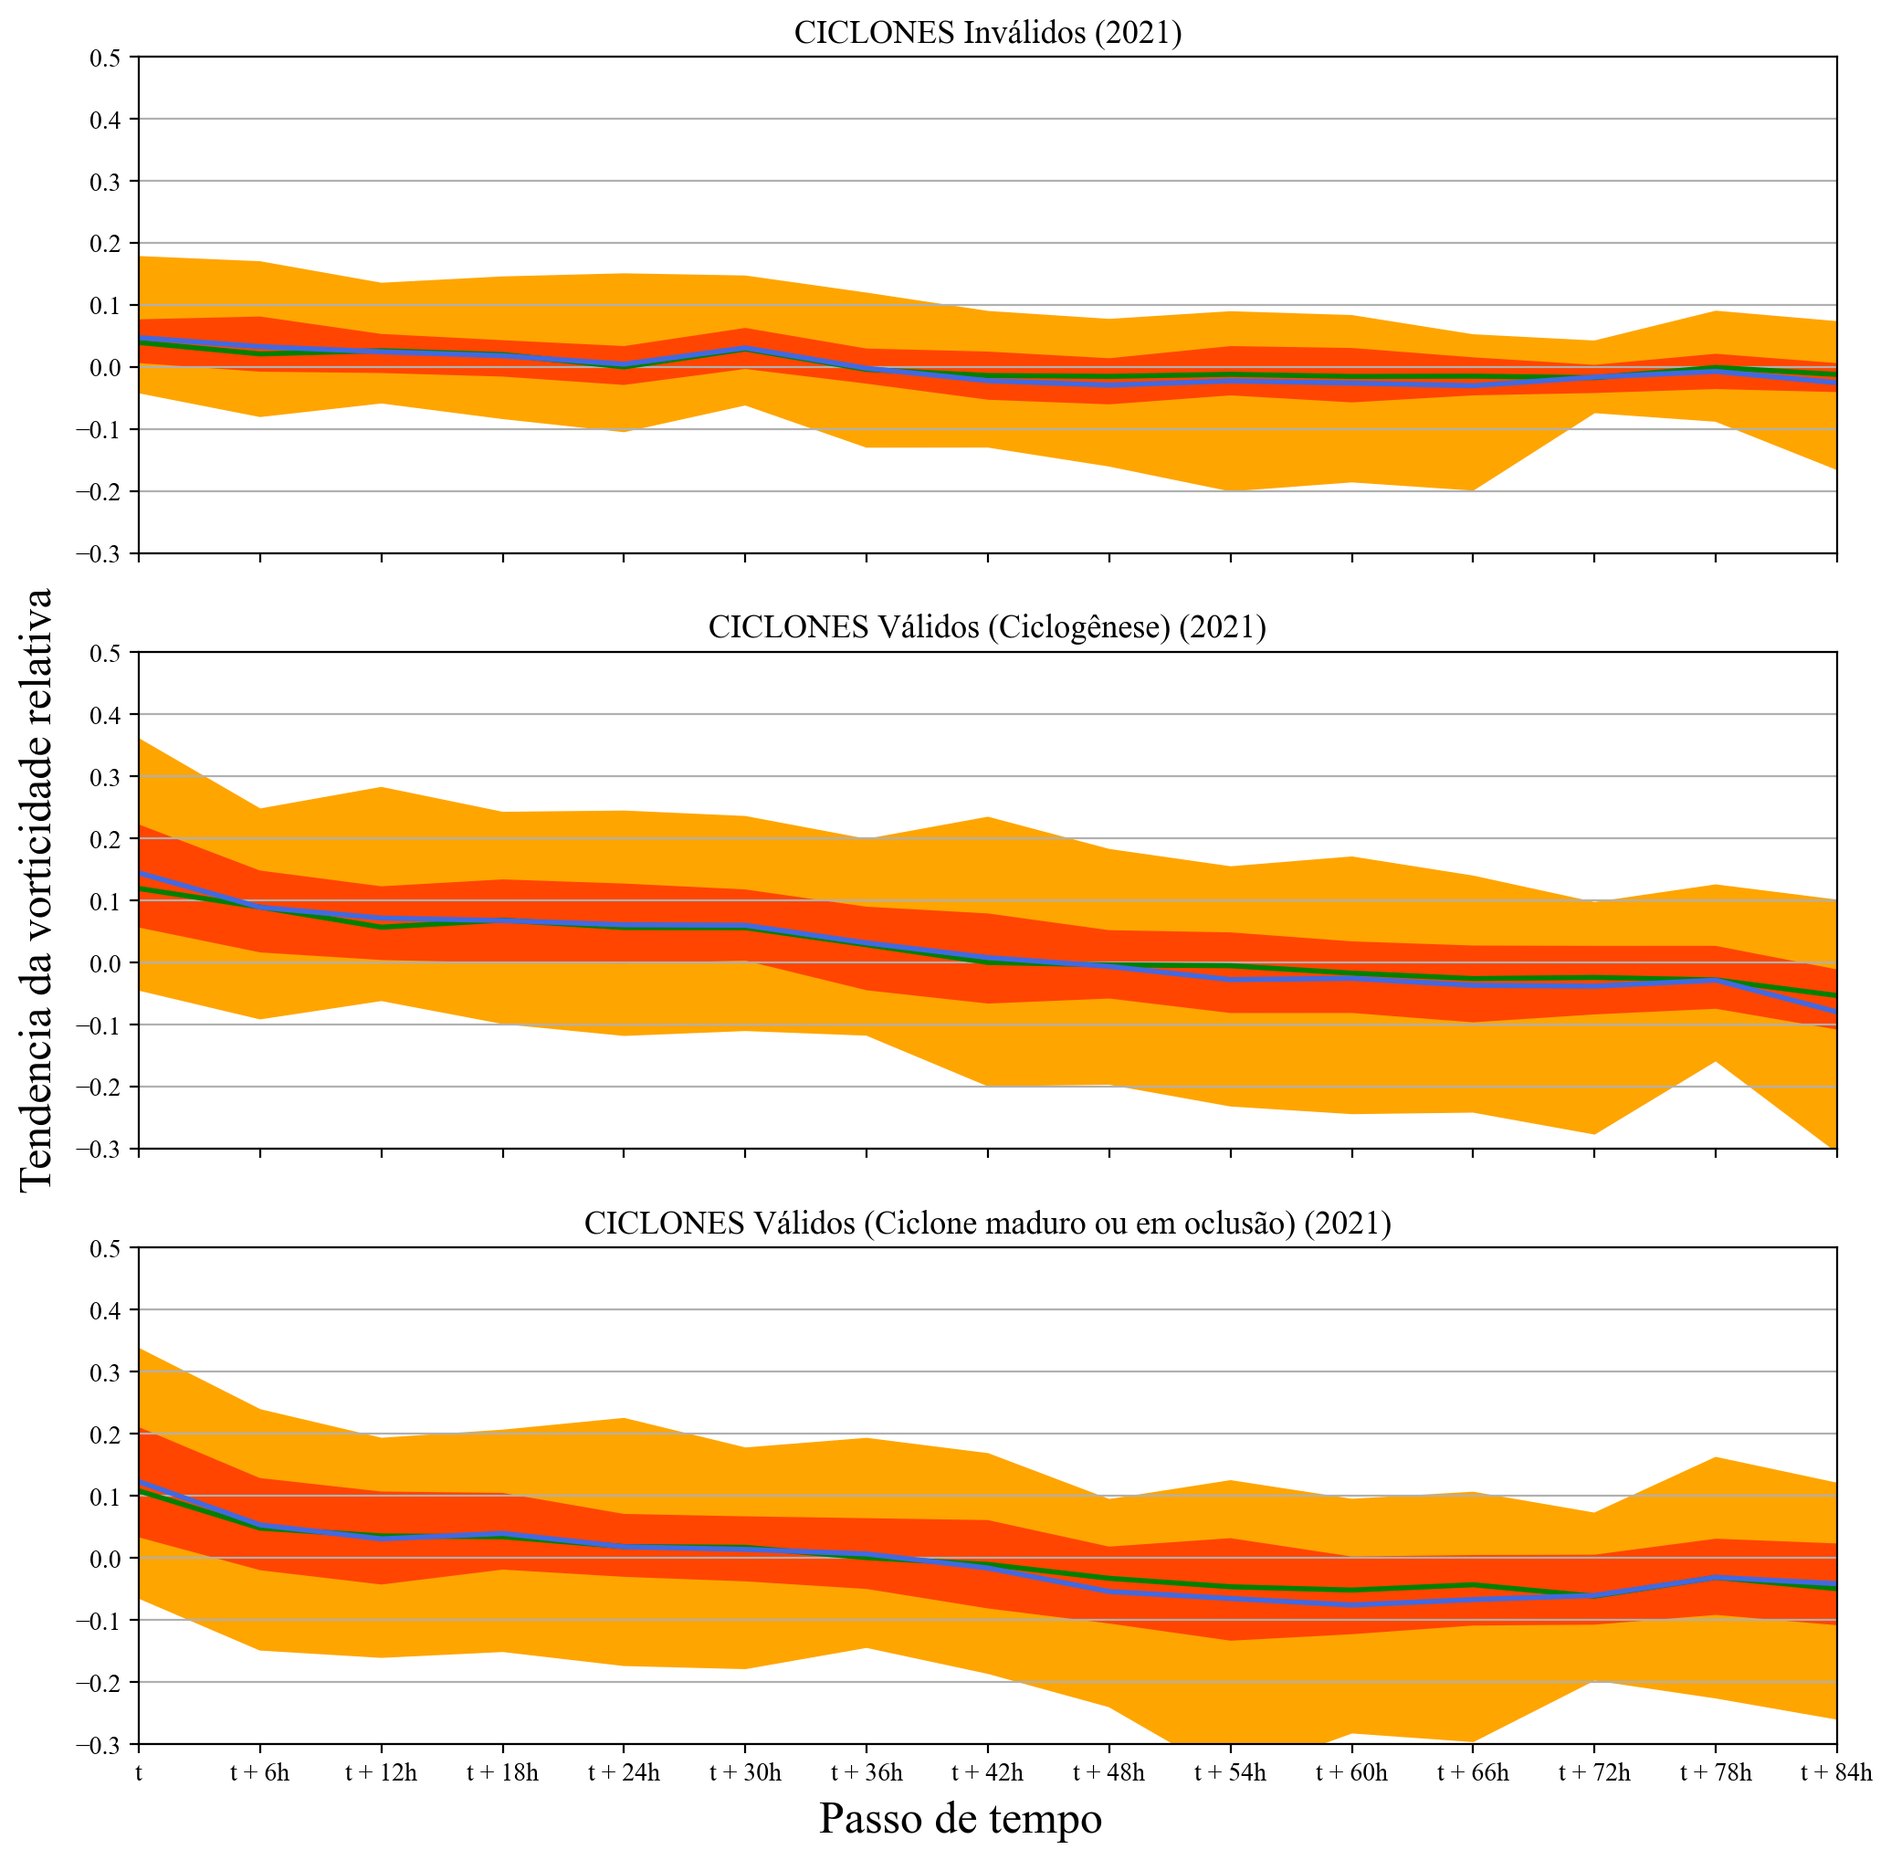
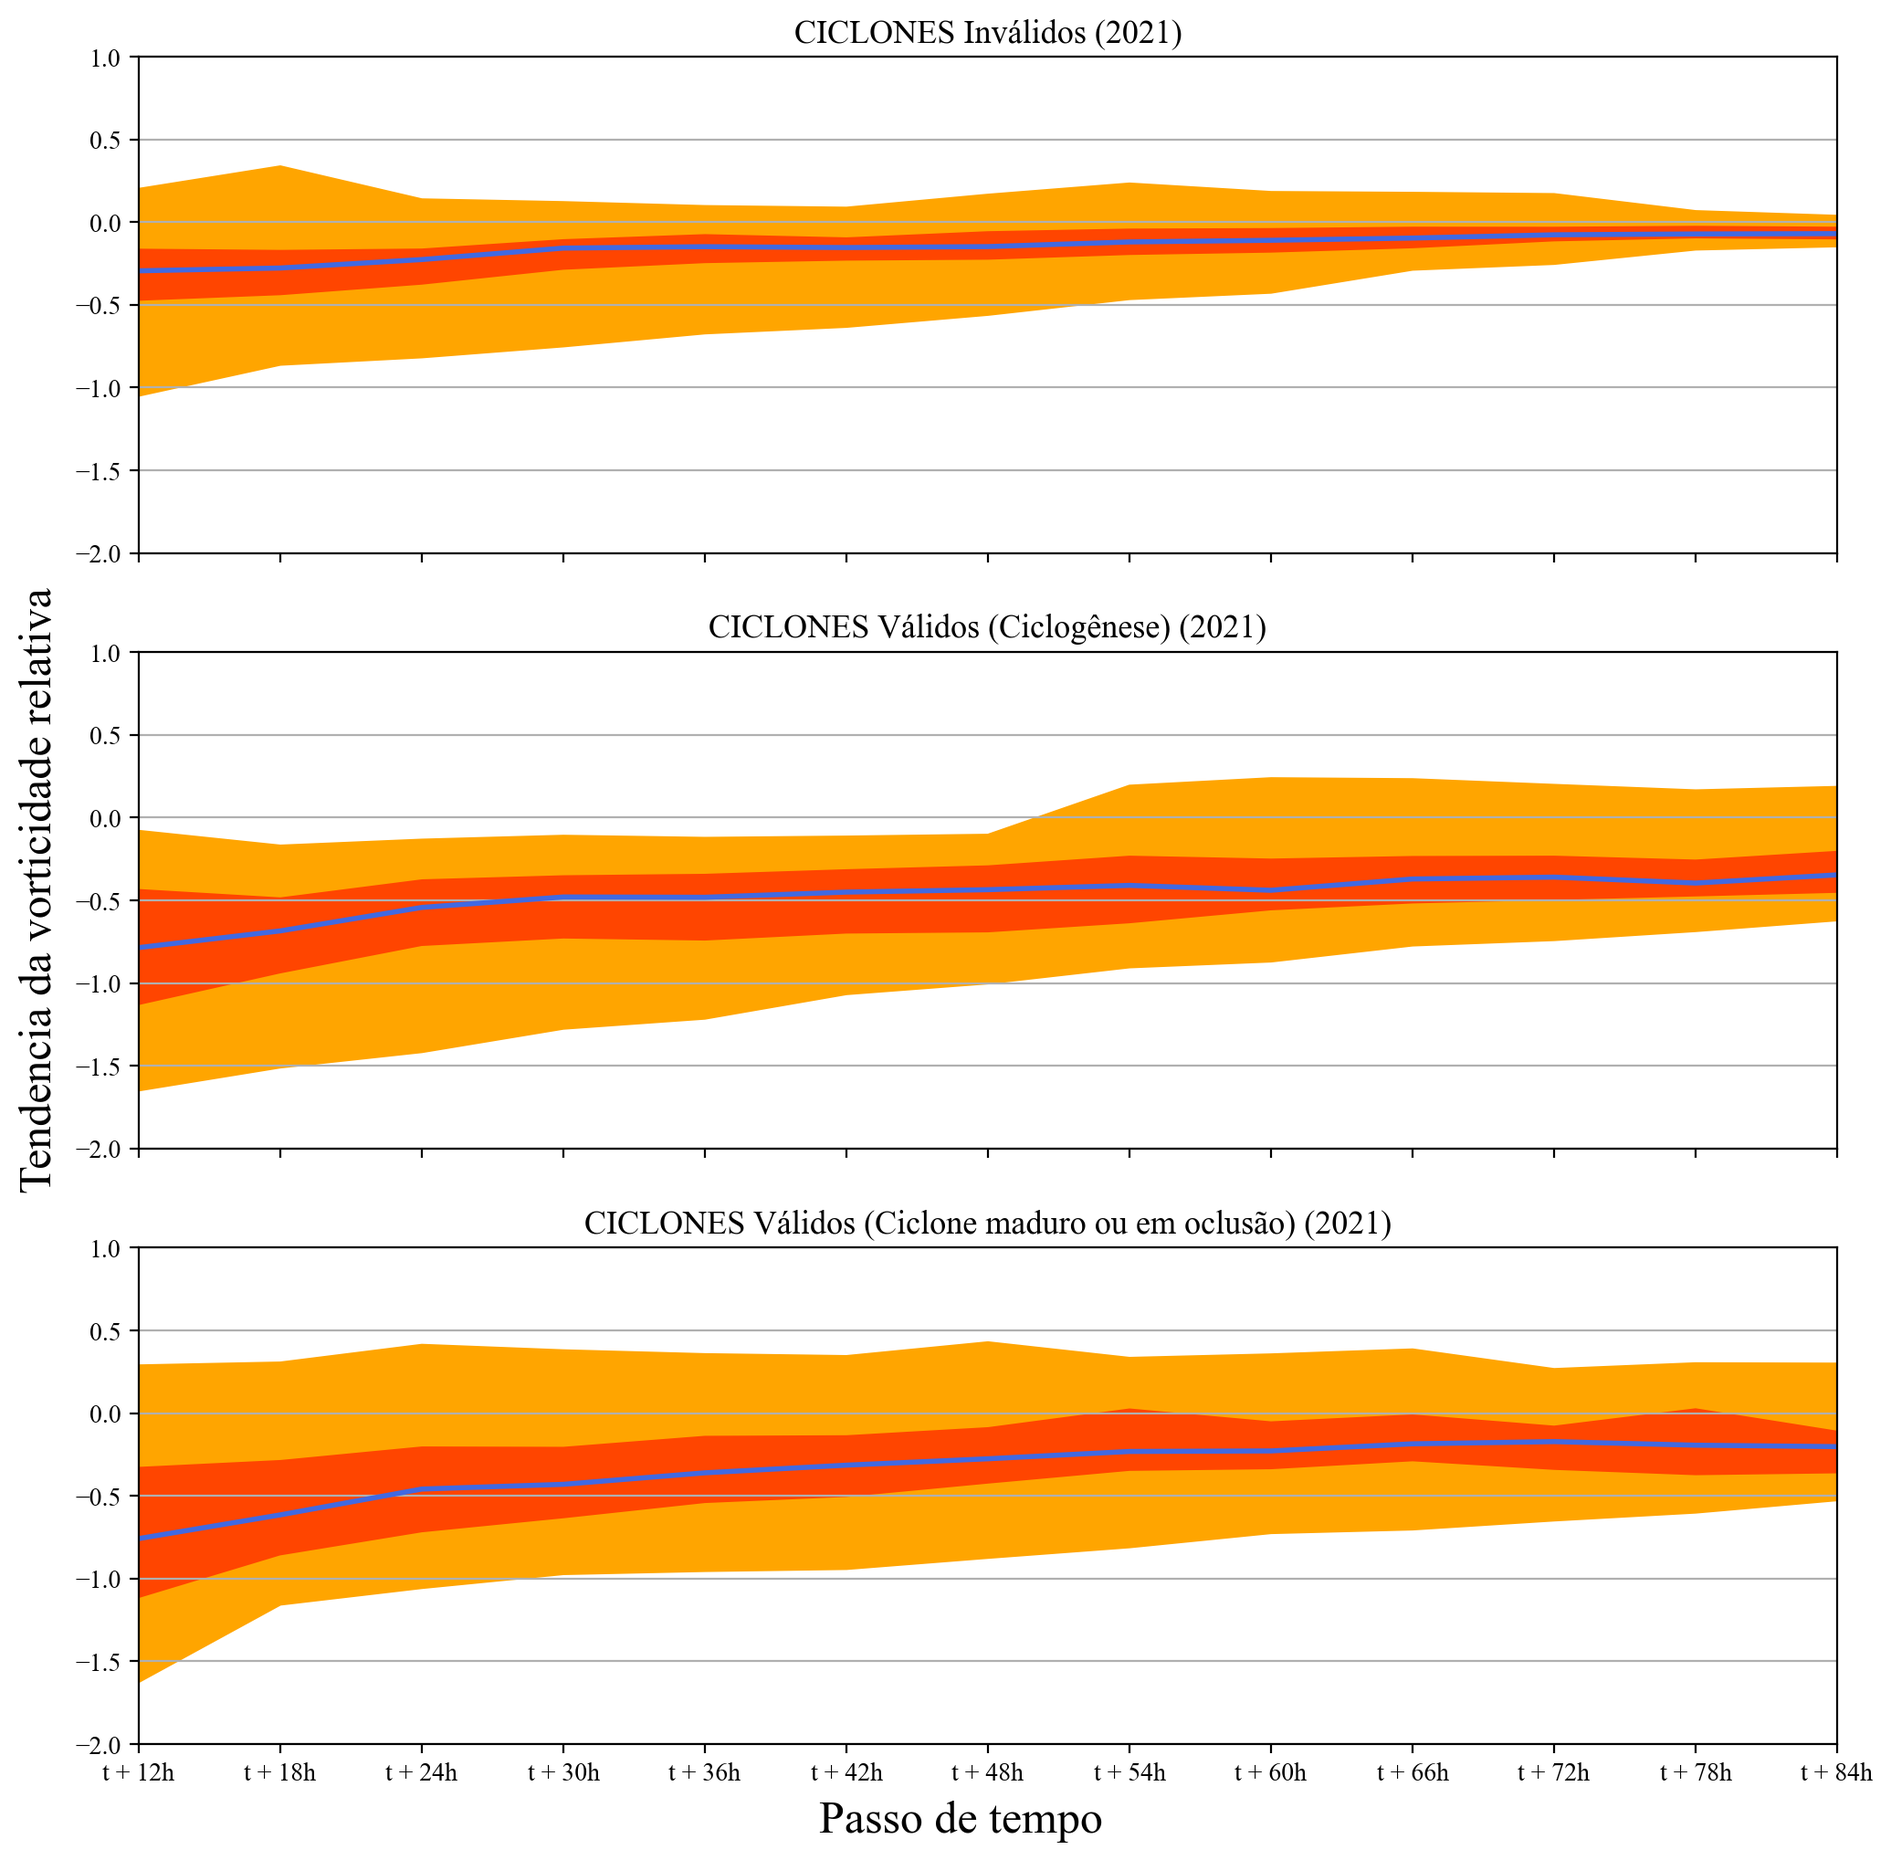
Correções na metodologia e verificacoes

diff --git a/Scripts/grafico_derivada.py b/Scripts/grafico_derivada.py
@@ -35,73 +35,11 @@ rcparams = {
 }
 plt.rcParams.update(rcparams)
 
-def interquartil_vorticidade_derivada(df : pd.DataFrame, save_folder):
-
-	# Intervalos interquartis nas primeiras 48h
-	group = df.groupby(['legenda', 'step']) # agrupando por passo de tempo
-
-	# coluna legenda
-	data_legend = np.unique(df['legenda'])
-	
-	# resultados de percentil e média
-	results = group.agg(
-		P5 = ('derivada_1', lambda x: np.nanpercentile(x, 5)), # percentil 5
-		P25 = ('derivada_1', lambda x: np.nanpercentile(x, 25)), # percenntil 25
-		P50 = ('derivada_1', lambda x: np.nanpercentile(x, 50)), # mediana
-		P75 = ('derivada_1', lambda x: np.nanpercentile(x, 75)), # percentil 75
-		P95 = ('derivada_1', lambda x: np.nanpercentile(x, 95)), # percentil 95
-		MEDIA = ('derivada_1', 'mean') # media
-	)
-
-	# Configuracoes do grafico
-	fig, axes = plt.subplots(figsize = (12, 12), nrows = data_legend.shape[0], sharex = True)
-
-	# Plotando os resultados
-	for i in range(data_legend.shape[0]):
-		subset = results.loc[(data_legend[i],)]
-
-		# Mediana  e media
-		axes[i].plot(subset.index, subset['P50'], color = 'green', linewidth = 2)
-		# axes[i].plot(subset.index, subset['MEDIA'], color = 'royalblue', linewidth = 2)
-
-		# preenche entre o percentil 25 e 75
-		axes[i].fill_between(subset.index, subset['P25'], subset['P75'], color = 'orangered')
-
-		# preenche entre o percentil 5 e 25
-		axes[i].fill_between(subset.index, subset['P5'], subset['P25'], color = 'orange')
-
-		# preenche entre o percentil 75 e 95
-		axes[i].fill_between(subset.index, subset['P75'], subset['P95'], color = 'orange')
-
-		# FFORMATACAO DO EIXO X.
-		axes[i].set_xticks(subset.index)
-		axes[i].set_xticklabels(["t"] + [f"t + {passo * 6}h" for passo in subset.index[1:]], fontsize = 10)
-		axes[i].set_xlim(0, 14) # Primeiras 48 horas
-
-		# FORMATACOES DO EIXO Y
-		axes[i].set_ylim(-0.3, 0.5)
-		axes[i].set_yticks([-0.3, -0.2, -0.1, 0, 0.1, 0.2, 0.3, 0.4, 0.5])
-
-		# Titulo
-		axes[i].set_title(f"CICLONES {data_legend[i]} (2021)", fontsize = 13)
-
-		# Demais configuracoes
-		axes[i].grid(True, axis = 'y')
-
-
-	# Legenda do eixo x
-	fig.text(0.5, 0.07, "Passo de tempo", ha = 'center', fontsize = 18)
-
-	# Legenda do eixo y
-	fig.text(0.07, 0.5, "Tendencia da vorticidade relativa", va = 'center', rotation = 'vertical', fontsize = 18)
-
-	# Salva a figura e fecha
-	nome = os.path.join(save_folder, "Intervalos Interquartis Derivada.png")
-	fig.savefig(nome, bbox_inches = 'tight', dpi = 200)
-	plt.close()
-
 
 def interquartil_vorticidade(df : pd.DataFrame, save_folder):
+
+	df = df.copy()
+	df['rel_vort'] = -1 * df['rel_vort'] # convertendo pra vorticidade negativa
 
 	# Intervalos interquartis nas primeiras 48h
 	group = df.groupby(['legenda', 'step']) # agrupando por passo de tempo
@@ -127,7 +65,7 @@ def interquartil_vorticidade(df : pd.DataFrame, save_folder):
 		subset = results.loc[(data_legend[i],)]
 
 		# Mediana  e media
-		axes[i].plot(subset.index, subset['P50'], color = 'green', linewidth = 2)
+		axes[i].plot(subset.index, subset['P50'], color = 'royalblue', linewidth = 2)
 		# axes[i].plot(subset.index, subset['MEDIA'], color = 'royalblue', linewidth = 2)
 
 		# preenche entre o percentil 25 e 75
@@ -141,11 +79,11 @@ def interquartil_vorticidade(df : pd.DataFrame, save_folder):
 
 		# FFORMATACAO DO EIXO X.
 		axes[i].set_xticks(subset.index)
-		axes[i].set_xticklabels(["t"] + [f"t + {passo * 6}h" for passo in subset.index[1:]], fontsize = 10)
-		axes[i].set_xlim(0, 14) # Primeiras 48 horas
+		axes[i].set_xticklabels([f"t + {passo * 6}h" if passo > 0 else 't' for passo in subset.index], fontsize = 10)
+		axes[i].set_xlim(0, 16) # Primeiras 48 horas
 
 		# FORMATACOES DO EIXO Y
-		axes[i].set_ylim(0, 10)
+		axes[i].set_ylim(-10, 0)
 
 		# Titulo
 		axes[i].set_title(f"CICLONES {data_legend[i]} (2021)", fontsize = 13)
@@ -158,7 +96,11 @@ def interquartil_vorticidade(df : pd.DataFrame, save_folder):
 	fig.text(0.5, 0.07, "Passo de tempo", ha = 'center', fontsize = 18)
 
 	# Legenda do eixo y
-	fig.text(0.07, 0.5, "Vorticidade relativa negativa", va = 'center', rotation = 'vertical', fontsize = 18)
+	fig.text(0.07, 0.5, "Vorticidade relativa [1/s * 1e-5]", va = 'center', rotation = 'vertical', fontsize = 18)
+
+	# print(group.agg(
+	# 	qtd = ('rel_vort', lambda x: np.nansum(x > -4))
+	# ).reset_index().to_csv(os.path.join(save_folder, 'experimento 2.csv'), index = False))
 
 	# Salva a figura e fecha
 	nome = os.path.join(save_folder, "Intervalos Interquartis.png")
@@ -182,16 +124,11 @@ def sitemas_semiestacionarios(tracking : pd.DataFrame):
 		# ordena de acordo com o passo de tempo
 		cyclone = cyclone.sort_values(by = 'step', ascending=True)
 
-		distance = 0 # distancia total em graus
-		for row in cyclone.iterrows():
-			row = row[1]
-			if row['step'] == 0: # se for o primeiro passo de tempo, pula.
-				continue
-			
-			prev_row = cyclone.loc[cyclone['step'] == row['step'] - 1].iloc[0] # localiza o passo de tempo anterior
-
-			d = haversine_np(row['longitude'], row['latitude'], prev_row['longitude'], prev_row['latitude']) 
-			distance += d
+		# instantes de tempo
+		pos_ini = cyclone.iloc[0]
+		pos_fim = cyclone.iloc[-1]
+		
+		distance = haversine_np(pos_ini['longitude'], pos_ini['latitude'], pos_fim['longitude'], pos_fim['latitude']) 
 		
 		# atribuindo o resultado às linhas correspondentes
 		if distance < 10:
@@ -238,7 +175,7 @@ def grafico_interquartil(data_folder, save_folder):
 	print("Após o filtro de tempo restaram:", np.unique(df['id']).shape[0], "ciclones")
 
 	# filtrando de acordo com o criterio de sistemas semi estacionarios.
-	df = df.loc[~sitemas_semiestacionarios(df)].copy()
+	# df = df.loc[~sitemas_semiestacionarios(df)].copy()
 	
 	# Quantos ciclones sobraram depois desses filtros?
 	unicos = np.unique(df['id'])
@@ -247,6 +184,5 @@ def grafico_interquartil(data_folder, save_folder):
 
 	# gerando as figuras
 	interquartil_vorticidade(df, save_folder)
-	interquartil_vorticidade_derivada(df, save_folder)
 
  

diff --git a/Scripts/densidade_ciclogenetica.py b/Scripts/densidade_ciclogenetica.py
@@ -100,21 +100,34 @@ def gerar_netcdf(data_folder, years, resolucao : int = 5):
 		# convetendo objetos datetime
 		df['datetime'] = pd.to_datetime(df['datetime'])
 
+		#  indica a  data inicial do ciclone em cada passo de tempo
+		df['mes_inicio'] = pd.Series(0, df.index)
+		ids_unicos = np.unique(df['id'])
+		for id_ in ids_unicos:
+			condition = df['id'] == id_
+			cyclone = df.loc[condition]
+			mes = cyclone['datetime'].dt.month.iloc[0]
+			df.loc[condition, 'mes_inicio'] = mes
+
 		# loop para cada mes
 		for month in meses:
 			# slice para o mes e ano
-			subset = df.loc[df['datetime'].dt.month == month]
+			subset = df.loc[df['mes_inicio'] == month]
 
-			# resgatando o primeiro passo de tempo de cada ciclone
-			subset = subset.loc[subset['step'] == 0]
+			# resgatando a media dos primeiros passos de tempo
+			group = subset.loc[subset['step'] <= 4].groupby('id')
+			grouped = group.agg(
+				lon = ('longitude', 'mean'),
+			)
+			lat = subset.loc[subset['step'] == 0, ['latitude', 'id']]
 
 			# calculando a densidade
 			idx = (year - ano_inicio) * 12 + (month - 1)
 			results[:, :, idx] =  matriz_densidade(
 				binx,
 				biny,
-				subset['longitude'].to_numpy(),
-				subset['latitude'].to_numpy()
+				grouped['lon'].to_numpy(),
+				lat['latitude'].to_numpy()
 				) / dA # Dividindo pelos infinitesimos de area
 
 	# Gerando o arquivo netcdf
@@ -199,7 +212,6 @@ def regioes_ciclogeneticas(data_folder, years):
 			# posicao no array
 			idx = (year - ano_inicio) * 12 + (month - 1) 
 
-			print(qtd)
 			# atribuindo as quantidades
 			RG1_values[idx] = qtd['RG1']
 			RG2_values[idx] = qtd['RG2']

diff --git a/main.py b/main.py
@@ -14,7 +14,8 @@ from Scripts.tracking_postprocessing import post_processing
 from Scripts.grafico_derivada import grafico_interquartil
 from Scripts import figura_tracking
 from Scripts import densidade_ciclogenetica
-from Scripts.graficos_espaciais import sazonalidade_ciclogenese
+from Scripts.graficos_espaciais import sazonalidade_ciclogenese, visualizar_mapas
+from Scripts.estatisticas import histograma_densidade
 
 if __name__ == "__main__":
 	# diretorios
@@ -50,16 +51,22 @@ if __name__ == "__main__":
 	densidade_ciclogenetica.gerar_netcdf(dados_filtrados_dir, anos, resolucao = 1)
 
 	# Visualizar plot basico do netcdf gerado
-	# densidade_ciclogenetica.visualizar_mapas(processados_dir, figuras_folder)
+	visualizar_mapas(processados_dir, figuras_folder)
 
-	# serie temporal da quantidade de ciclogenese por regiao ciclogenetica
-	# densidade_ciclogenetica.regioes_ciclogeneticas(dados_filtrados_dir, anos)
+	# # serie temporal da quantidade de ciclogenese por regiao ciclogenetica
+	densidade_ciclogenetica.regioes_ciclogeneticas(dados_filtrados_dir, anos)
+
+	# # Sazonalidade espacial ciclogenese
+	sazonalidade_ciclogenese(processados_dir, figuras_folder)
 
 	# SERIES TEMPORAIS
 	# ///////////////////////////////////////////////////////////////////////
 	
-	# Sazonalidade espacial ciclogenese
-	sazonalidade_ciclogenese(processados_dir, figuras_folder)
+
+	# ESTATISITCAS (APENAS PARA VISUALIZAR)
+	# ////////////////////////////////////////////////////////////////////////
+	# histograma_densidade(processados_dir)
+	
 
 	# Termina o timer
 	end = time.time()

diff --git a/Scripts/graficos_espaciais.py b/Scripts/graficos_espaciais.py
@@ -42,23 +42,24 @@ def visualizar_mapas(data_folder, save_folder):
 	# LEGENDA
 	# /////////////////////////////////////////////////////////////////////////
 	# define os intervalos da legenda
-	q_levs = np.array([1, 3, 5, 7, 9, 11, 13, 15, 17, 19, 21, 23, 25])
+	q_levs = np.array([1, 2, 3, 4, 5, 7, 10, 13, 17, 25])
 
 	# lista de cores, em ordem crescete. RGBA
 	cmap = mcm.get_cmap('Oranges')
 
-	colors = [cmap(i) for i in np.linspace(0, 0.9, q_levs.shape[0])]
+	colors = [cmap(i) for i in np.linspace(0, 0.8, q_levs.shape[0])]
 
-	# cria um novo cmap a partir do pre-existente
+	# cria um novo cmap
 	cmap = mcolors.LinearSegmentedColormap.from_list(
 	'Custom cmap', colors, q_levs.shape[0] - 1)
-	# cmap.set_over(np.array([0, 37, 89, 255])/255)
+	#
 	cmap.set_under('white')
-	cmap.set_over(cmap(0.95))
+	cmap.set_over('teal')
 	cmap.set_bad('white')
 
 	# nromaliza com base nos intervalos
 	norm = mcolors.BoundaryNorm(q_levs, cmap.N) # usa no PColormesh, nao no Contourf
+	# norm = mcolors.PowerNorm(1, total.max())
 
 	# configuracoes do plot
 	proj = ccrs.PlateCarree()
@@ -134,7 +135,6 @@ def sazonalidade_ciclogenese(data_folder, save_folder):
 	# calculando os totais sazonais
 	sazonal = da.groupby((da.time.dt.month // 3) % 4).sum()
 	sazonal = sazonal * 1e4 # compensacao
-	print(sazonal)
 
 	# coordenadas
 	x = sazonal.longitude.values

diff --git a/Scripts/estatisticas.py b/Scripts/estatisticas.py
@@ -1,0 +1,47 @@
+"""
+Este arquivo trata-se de um dos scripts criados para a confecção do seminário de Física do Clima.
+
+Gera figuras para auxiliar na tomada de decioes, baseando-se em estatistica.
+
+Criado por: Lucas Menezes
+"""
+
+# IMPORT BUILT-IN MODULES
+import os
+
+# IMPORT MODULES
+import pandas as pd
+import numpy as np
+import xarray as xr
+import matplotlib.pyplot as plt
+import matplotlib.ticker as mticker
+import matplotlib.colors as mcolors
+import matplotlib.cm as mcm
+
+
+def histograma_densidade(data_folder):
+	# abre o arquivo e prepara os dados
+	filename = 'frequencia_ciclogenetica.nc'
+	ds = xr.open_dataset(os.path.join(data_folder, filename))
+	da = ds['ciclogenese']
+
+	# vamo plotar geral.
+	total = da.sum(dim = 'time')
+	total = total * 1e4 # compensacao
+
+	# coordenadas
+	x = total.longitude.values
+	y = total.latitude.values
+	X, Y = np.meshgrid(x, y)
+
+	bins = np.linspace(1, 25, 25)
+	hist, bins = np.histogram(total.to_numpy(), bins = bins)
+
+	norm = mcolors.LogNorm(1, total.max())
+	print([norm(i) for i in range(1, 25)])
+
+	fig, ax = plt.subplots()
+
+	ax.bar(bins[:-1], hist, edgecolor = 'none', color = 'royalblue')
+	ax.set_yscale('log')
+	plt.show()

diff --git a/Scripts/tracking_postprocessing.py b/Scripts/tracking_postprocessing.py
@@ -79,7 +79,7 @@ def relative_vorticity(tracking: pd.DataFrame):
 
 	# passo de tempo
 	dt_h = 6 # resolucao temporal em horas
-	dt_criterio = 72
+	dt_criterio = 60
 	step = dt_criterio // dt_h
 
 	# loop para cada id / ciclone
@@ -88,7 +88,7 @@ def relative_vorticity(tracking: pd.DataFrame):
 		condition = tracking['id'] == n
 		cyclone = tracking.loc[condition]
 
-		if cyclone['duration'].iloc[0] < 72: # se a duracao do ciclone for inferior a 72h, pula.
+		if cyclone['duration'].iloc[0] < dt_criterio: # se a duracao do ciclone for inferior a 72h, pula.
 			continue
 
 		# organizando em ordem crescente de acordo com o tempo
@@ -148,7 +148,7 @@ def post_processing(folder : str, years : list[int]) -> None:
 
 		# estimando o criterio de vorticidade relativa
 		# ////////////////////////////////////////////////////////////////////
-		df = df.loc[~relative_vorticity(df)] # True se rel_vort for inferior a 4 em 72h
+		df = df.loc[~relative_vorticity(df)] # True se rel_vort for inferior a 4 em 60h
 
 
 		print(f"Após os filtros, restaram {np.unique(df['id']).shape[0]} / {N} ciclones em {year}")
